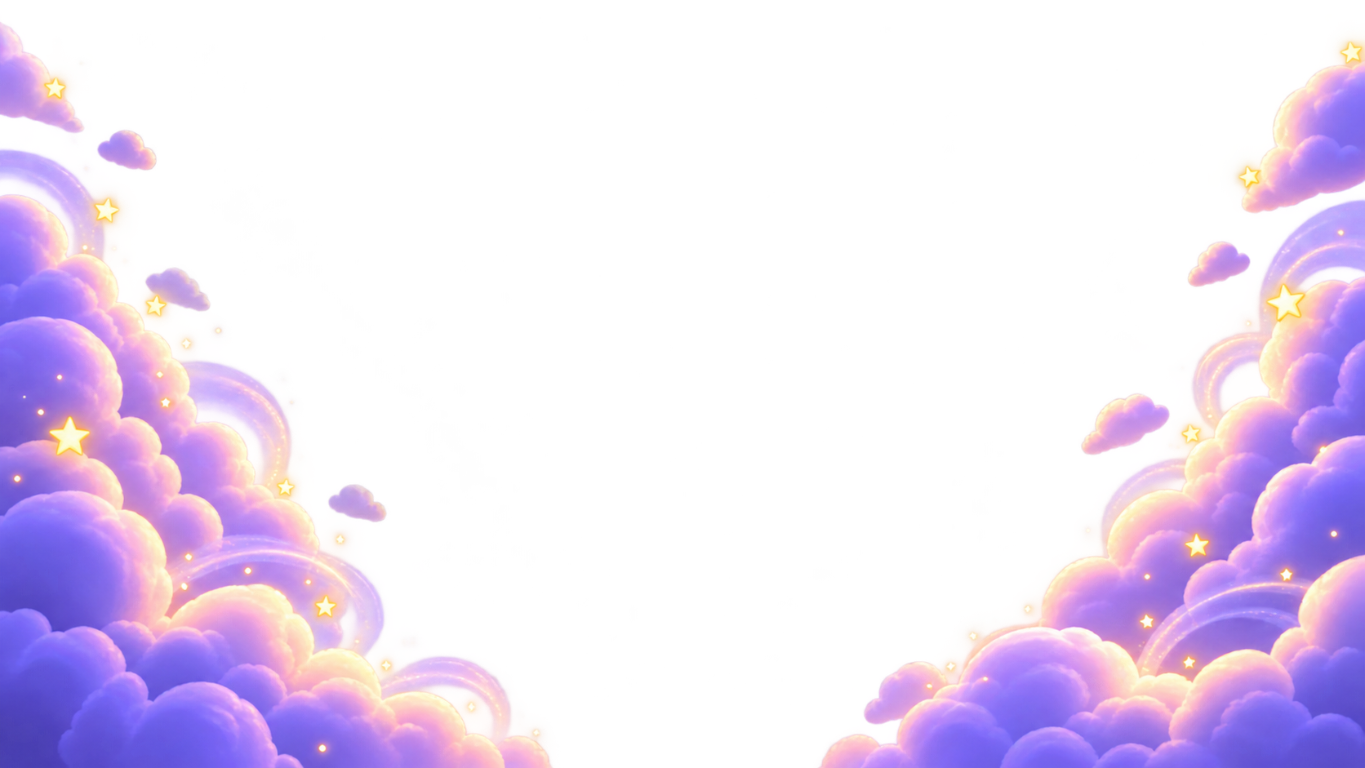
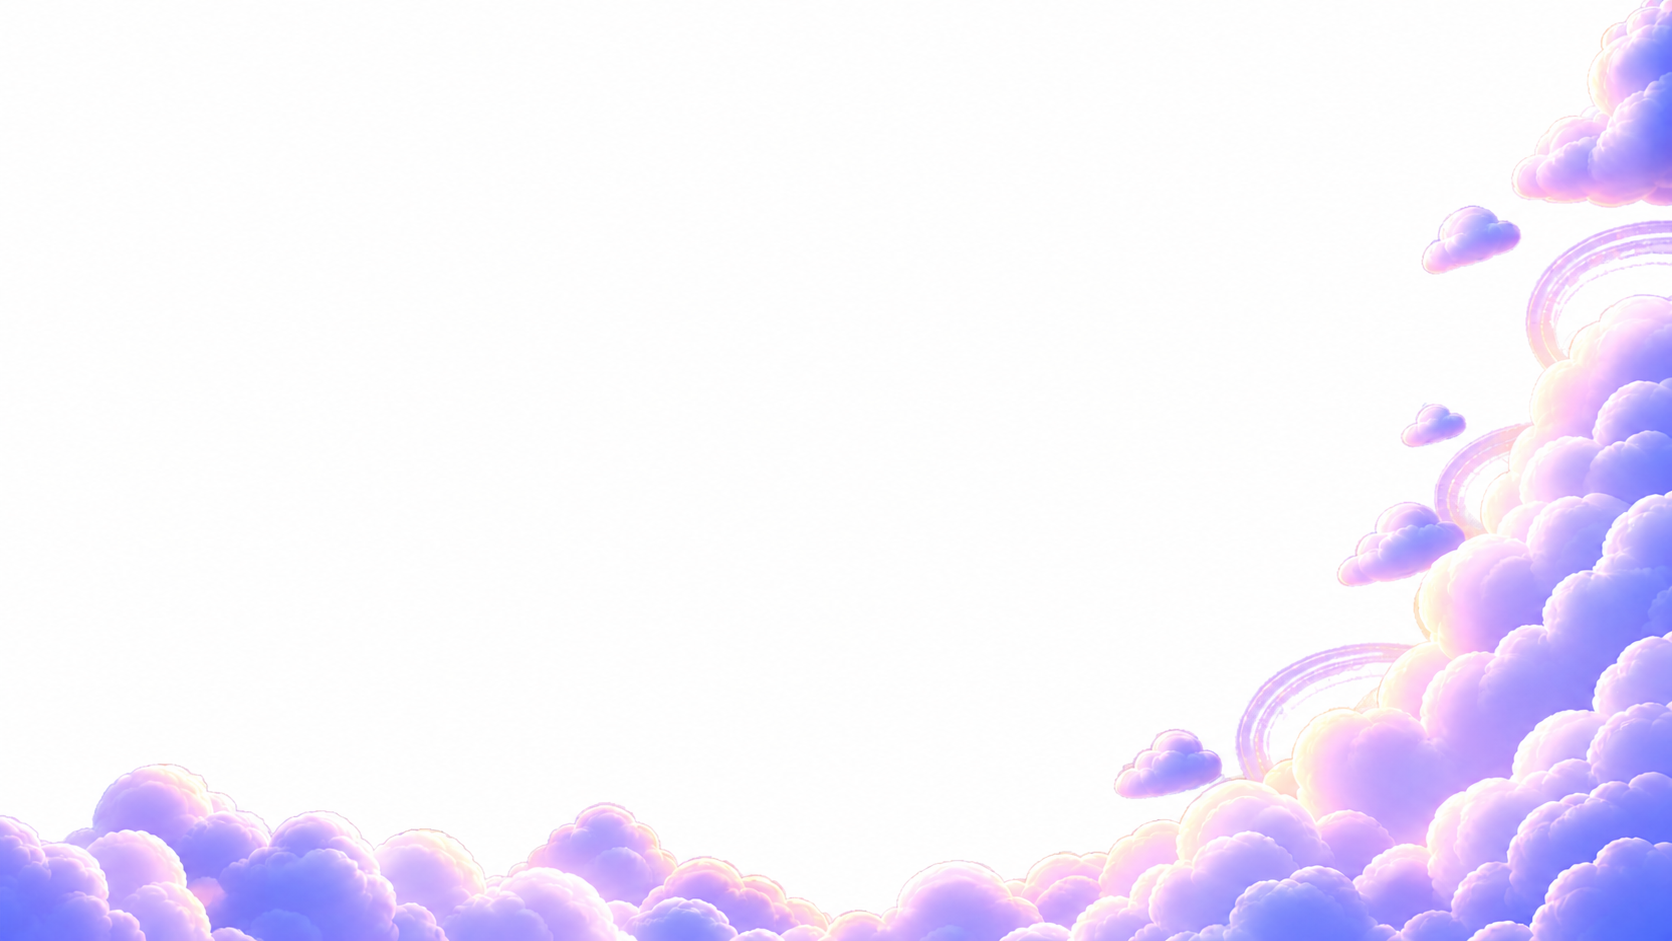
Update

diff --git a/src/components/landing/heroSection.jsx b/src/components/landing/heroSection.jsx
@@ -43,11 +43,12 @@ const HeroSection = () => {
     <section
       className="landing-hero relative min-h-screen overflow-hidden bg-transparent text-[#294B58] dark:text-white"
     >
+
       <img
-        src="/clouds-background.png"
+        src="/clouds-background1.png"
         alt=""
         aria-hidden="true"
-        className="landing-hero__cloud-background pointer-events-none absolute inset-0 z-0 block h-full w-full object-cover opacity-30 dark:opacity-90"
+        className="landing-hero__cloud-background pointer-events-none absolute inset-0 z-[1] h-full w-full object-cover object-bottom opacity-65 mix-blend-screen"
       />
       <img
         src="/magic-hero.png"
@@ -90,7 +91,7 @@ const HeroSection = () => {
             <br />
             With a Little
             <br />
-            <span className="bg-gradient-to-r from-[#E85B4D] to-[#A944C7] bg-clip-text text-transparent dark:from-[#ff9b70] dark:via-[#e56bff] dark:to-[#b96cff]">
+            <span className="bg-gradient-to-r from-[#FF6848] via-[#FF985C] to-[#0EA5E9] bg-clip-text text-transparent dark:from-[#ff9b70] dark:via-[#ffb86c] dark:to-[#38bdf8]">
               Magic.
             </span>
           </motion.h1>
@@ -130,9 +131,9 @@ const HeroSection = () => {
               <Link
                 to="/dashboard"
                 onClick={handleExplore}
-                className="inline-flex items-center justify-center gap-2 rounded-full border border-white bg-white/95 px-7 py-3 text-sm font-bold text-[#315064] shadow-lg shadow-white/20 transition hover:-translate-y-1 hover:bg-white hover:text-[#E9684A] dark:border-violet-300/60 dark:bg-violet-600/90 dark:text-white dark:shadow-lg dark:shadow-violet-900/30 dark:hover:bg-violet-500"
+                className="inline-flex items-center justify-center gap-2 rounded-full border border-white bg-white/95 px-7 py-3 text-sm font-bold text-[#315064] shadow-lg shadow-white/20 transition hover:-translate-y-1 hover:bg-white hover:text-[#E9684A] dark:border-sky-300/60 dark:bg-sky-600/90 dark:text-white dark:shadow-lg dark:shadow-sky-900/30 dark:hover:bg-sky-500"
               >
-                <BookOpen size={17} className="text-violet-600 dark:text-violet-300" />
+                <BookOpen size={17} className="text-sky-600 dark:text-sky-300" />
                 Explore Story Library
                 <ArrowRight size={15} />
               </Link>

diff --git a/src/index.css b/src/index.css
@@ -52,7 +52,7 @@
 
 body {
   font-family: 'Nunito', sans-serif;
-  background-color: #e7e4fb;
+  background-color: #ffffff;
   min-height: 100vh;
   overflow-x: hidden;
 }
@@ -215,17 +215,17 @@ body {
 
 @media (max-width: 767px) {
   .landing-hero__cloud-background {
-    left: 50%;
+    left: -10%;
     right: auto;
     top: 0;
-    bottom: auto;
-    width: auto;
+    bottom: 0;
+    width: 120%;
     min-width: 0;
     max-width: none;
     height: 100%;
-    object-fit: cover;
+    object-fit: contain;
     object-position: center bottom;
-    transform: translateX(-50%);
+    transform: translateX(0);
     animation: mobileCloudFloat 18s ease-in-out infinite alternate;
   }
 }
@@ -262,8 +262,8 @@ body {
   50% { transform: translateY(-10px); }
 }
 
-/* Slowly shifting glow adds movement to the light and dark hero backgrounds. */
-.landing-hero::before {
+/* Slowly shifting glow adds movement to the dark hero background. */
+.dark .landing-hero::before {
   content: "";
   position: absolute;
   inset: 0;
@@ -287,8 +287,8 @@ body {
 }
 
 @keyframes mobileCloudFloat {
-  0% { transform: translateX(-50%); }
-  100% { transform: translateX(calc(-50% - 10px)); }
+  0% { transform: translateX(0); }
+  100% { transform: translateX(-5%); }
 }
 
 @media (prefers-reduced-motion: reduce) {
@@ -300,12 +300,16 @@ body {
   }
 }
 
-/* Animated bubbly background */
+/* Clean Light Mode background */
 body::before {
   content: '';
   position: fixed;
   inset: 0;
   z-index: -1;
+  background: #ffffff;
+}
+
+.dark body::before {
   background:
     radial-gradient(ellipse at 10% 20%, rgba(167, 180, 255, 0.3) 0%, transparent 50%),
     radial-gradient(ellipse at 90% 80%, rgba(241, 151, 220, 0.18) 0%, transparent 50%),

diff --git a/src/constants/theme-landing.js b/src/constants/theme-landing.js
@@ -20,13 +20,13 @@ export const LANDING_THEME = {
     text: {
       heading: "text-[#173B4D] dark:text-amber-50",
       subtitle: "text-[#294B58] dark:text-slate-300",
-      brand: "text-violet-600 dark:text-violet-400",
+      brand: "text-sky-600 dark:text-sky-400",
       light: "text-[#355361] dark:text-stone-400",
     },
     // Accents & Decorations
     accent: {
       brandBg: "bg-[#ff7043] dark:bg-[#ff7043]",
-      blurEffect: "bg-violet-200/40 dark:bg-[#5b2a9d]/40",
+      blurEffect: "bg-sky-200/40 dark:bg-[#0EA5E9]/20",
     },
   },
 
@@ -50,14 +50,14 @@ export const LANDING_THEME = {
   components: {
     badge: {
       container:
-        "bg-violet-50 dark:bg-white/10 border border-violet-200 dark:border-white/20 shadow-sm backdrop-blur-md",
-      text: "text-violet-700 dark:text-violet-300 text-xs font-bold uppercase tracking-wider",
+        "bg-sky-50 dark:bg-white/10 border border-sky-200 dark:border-white/20 shadow-sm backdrop-blur-md",
+      text: "text-sky-700 dark:text-sky-300 text-xs font-bold uppercase tracking-wider",
     },
     button: {
       primary:
         "bg-[#ff7043] hover:bg-[#ff8a5c] dark:bg-[#ff7043] dark:hover:bg-[#ff8a5c] text-white dark:text-white shadow-md shadow-[#ff7043]/30 transition-all border border-transparent",
       secondary:
-        "bg-white dark:bg-slate-800/50 text-violet-600 dark:text-white border border-violet-200 dark:border-slate-700 hover:bg-violet-50 dark:hover:bg-slate-800 backdrop-blur-sm transition-all",
+        "bg-white dark:bg-slate-800/50 text-sky-600 dark:text-white border border-sky-200 dark:border-slate-700 hover:bg-sky-50 dark:hover:bg-slate-800 backdrop-blur-sm transition-all",
     },
   },
 };

diff --git a/src/components/landing/pricing.jsx b/src/components/landing/pricing.jsx
@@ -137,7 +137,7 @@ export function PricingSection() {
               key={index}
               className={`relative rounded-[2rem] p-8 flex flex-col h-full transition-all duration-300 ${
                 plan.isPopular
-                  ? `bg-transparent backdrop-blur-xl border-2 border-violet-500 shadow-xl shadow-violet-500/10 lg:-mt-8 lg:mb-8 z-10`
+                  ? `bg-transparent backdrop-blur-xl border-2 border-amber-500 shadow-xl shadow-amber-500/10 lg:-mt-8 lg:mb-8 z-10`
                   : "bg-transparent backdrop-blur-xl border border-white/60 shadow-[0_8px_30px_rgb(0,0,0,0.04)] hover:shadow-md"
               }`}
             >

diff --git a/src/components/ui/loginDialog.jsx b/src/components/ui/loginDialog.jsx
@@ -112,7 +112,7 @@ const LoginDialog = ({ isOpen, onClose, onSignupClick, onLoginSuccess }) => {
           <X size={20} />
         </button>
         <div className="mb-8 text-center">
-          <div className="text-5xl mb-3">🐘</div>
+          <img src="/elephant.jpg" alt="Elephant" className="w-16 h-16 mx-auto mb-3 rounded-full object-cover" />
           <h2
             className={`text-2xl mb-2 ${LANDING_THEME.typography.weight.heading} ${LANDING_THEME.colors.text.heading}`}
           >

diff --git a/src/components/landing/whyChooseUs.jsx b/src/components/landing/whyChooseUs.jsx
@@ -17,8 +17,8 @@ export function WhyChooseUs() {
       description:
         "Built-in filters ensure every generated story is appropriate, educational, and positive.",
       icon: Shield,
-      iconBg: "bg-violet-100",
-      iconColor: "text-violet-600",
+      iconBg: "bg-amber-100",
+      iconColor: "text-amber-600",
     },
     {
       title: "Endless Stories",

diff --git a/src/pages/LandingPage.jsx b/src/pages/LandingPage.jsx
@@ -53,7 +53,7 @@ const LandingPage = () => {
     >
       {/* Spark color matches the active theme */}
       <ClickSpark
-        sparkColor={isDarkMode ? "#F59E0B" : "#7C3AED"}
+        sparkColor={isDarkMode ? "#F59E0B" : "#FF6848"}
         sparkSize={12}
         sparkRadius={20}
         sparkCount={10}
